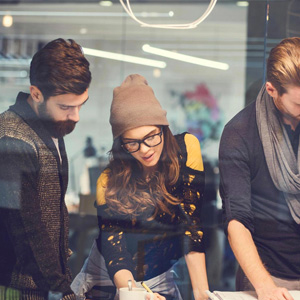
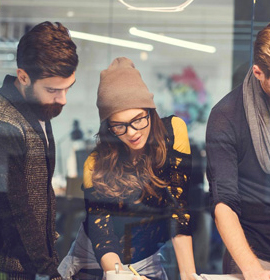
Blog's section changes
Changes to displaying photos in the Blog section

diff --git a/index.html b/index.html
@@ -201,30 +201,30 @@ Donec ullamcorper nulla non metus auctor fringilla. Lorem ipsum dolor sit amet, 
       <div class="blog__items">
           
           <div class="blogsblock">
-          <div class="blogsblock__img blogsblock__img--one"></div>
+          <div class="blogsblock__img blogsblock__img--one"><img src="img/blog-img-one.jpg" alt="Fresh summer campaign"></div>
           <div class="blogsblock__text">              
-              <h3 class="blogsblock__title">Fresh Summer Campaign</h3>
+              <h3 class="blogsblock__title">Fresh summer campaign</h3>
               <p class="blogsblock__description">Cum sociis natoque penatibus et magnis dis parturient montes, nascetur ridiculus mus. Lorem ipsum dolor sit amet, consectetur adipiscing elit. Donec sed odio dui. Vivamus sagittis lacus vel augue</p>              
           </div>
         </div>
           <div class="blogsblock">
-          <div class="blogsblock__img blogsblock__img--two"></div>
+          <div class="blogsblock__img blogsblock__img--two"><img src="img/blog-img-two.jpg" alt="Fresh summer campaign"></div>
           <div class="blogsblock__text">              
-              <h3 class="blogsblock__title">Fresh Summer Campaign</h3>
+              <h3 class="blogsblock__title">Fresh summer campaign</h3>
               <p class="blogsblock__description">Cum sociis natoque penatibus et magnis dis parturient montes, nascetur ridiculus mus. Lorem ipsum dolor sit amet, consectetur adipiscing elit. Donec sed odio dui. Vivamus sagittis lacus vel augue</p>              
           </div>
         </div>
           <div class="blogsblock">
-          <div class="blogsblock__img blogsblock__img--three"></div>
+          <div class="blogsblock__img blogsblock__img--three"><img src="img/blog-img-three.jpg" alt="Fresh summer campaign"></div>
           <div class="blogsblock__text">              
-              <h3 class="blogsblock__title">Fresh Summer Campaign</h3>
+              <h3 class="blogsblock__title">Fresh summer campaign</h3>
               <p class="blogsblock__description">Cum sociis natoque penatibus et magnis dis parturient montes, nascetur ridiculus mus. Lorem ipsum dolor sit amet, consectetur adipiscing elit. Donec sed odio dui. Vivamus sagittis lacus vel augue</p>              
           </div>
         </div>
           <div class="blogsblock">
-          <div class="blogsblock__img blogsblock__img--four"></div>
+          <div class="blogsblock__img blogsblock__img--four"><img src="img/blog-img-four.jpg" alt="Fresh summer campaign"></div>
           <div class="blogsblock__text">              
-              <h3 class="blogsblock__title">Fresh Summer Campaign</h3>
+              <h3 class="blogsblock__title">Fresh summer campaign</h3>
               <p class="blogsblock__description">Cum sociis natoque penatibus et magnis dis parturient montes, nascetur ridiculus mus. Lorem ipsum dolor sit amet, consectetur adipiscing elit. Donec sed odio dui. Vivamus sagittis lacus vel augue</p>              
           </div>
         </div>

diff --git a/css/blog.css b/css/blog.css
@@ -86,11 +86,6 @@
     margin-right: 0;
 }
 
-.postsblock:hover::after {  
-  background-color: var(--txt-color-active);
-  animation: backgroundchange 5s linear;
-}
-
 .blogssblock__text {
     margin: 0;
     margin-bottom: 33px;
@@ -124,60 +119,3 @@
   color: #222222;  
 }
 
-.blogsblock__img {  
-  position: relative;
-  display: block;
-  height: 282px;  
-}
-
-.blogsblock__img--one::after {  
-  content: "";
-  position: absolute;
-  top: 0;
-  right: 0;
-  margin: 0;
-  width: 270px;
-  height: 280px;
-  background-color: transparent;
-  background-image: url("/img/blog-img-one.jpg");
-  background-repeat: no-repeat;  
-}
-
-.blogsblock__img--two::after {  
-  content: "";
-  position: absolute;
-  top: 0;
-  left: 0;
-  margin: 0;
-  width: 270px;
-  height: 280px;
-  background-color: transparent;
-  background-image: url("/img/blog-img-two.jpg");
-  background-repeat: no-repeat;  
-}
-
-.blogsblock__img--three::after {  
-  content: "";
-  position: absolute;
-  top: 0;
-  left: 0;
-  margin: 0;
-  width: 270px;
-  height: 280px;
-  background-color: transparent;
-  background-image: url("/img/blog-img-three.jpg");
-  background-repeat: no-repeat;  
-}
-
-.blogsblock__img--four::after {  
-  content: "";
-  position: absolute;
-  top: 0;
-  left: 0;
-  margin: 0;
-  width: 270px;
-  height: 280px;
-  background-color: transparent;
-  background-image: url("/img/blog-img-four.jpg");
-  background-repeat: no-repeat;  
-}
